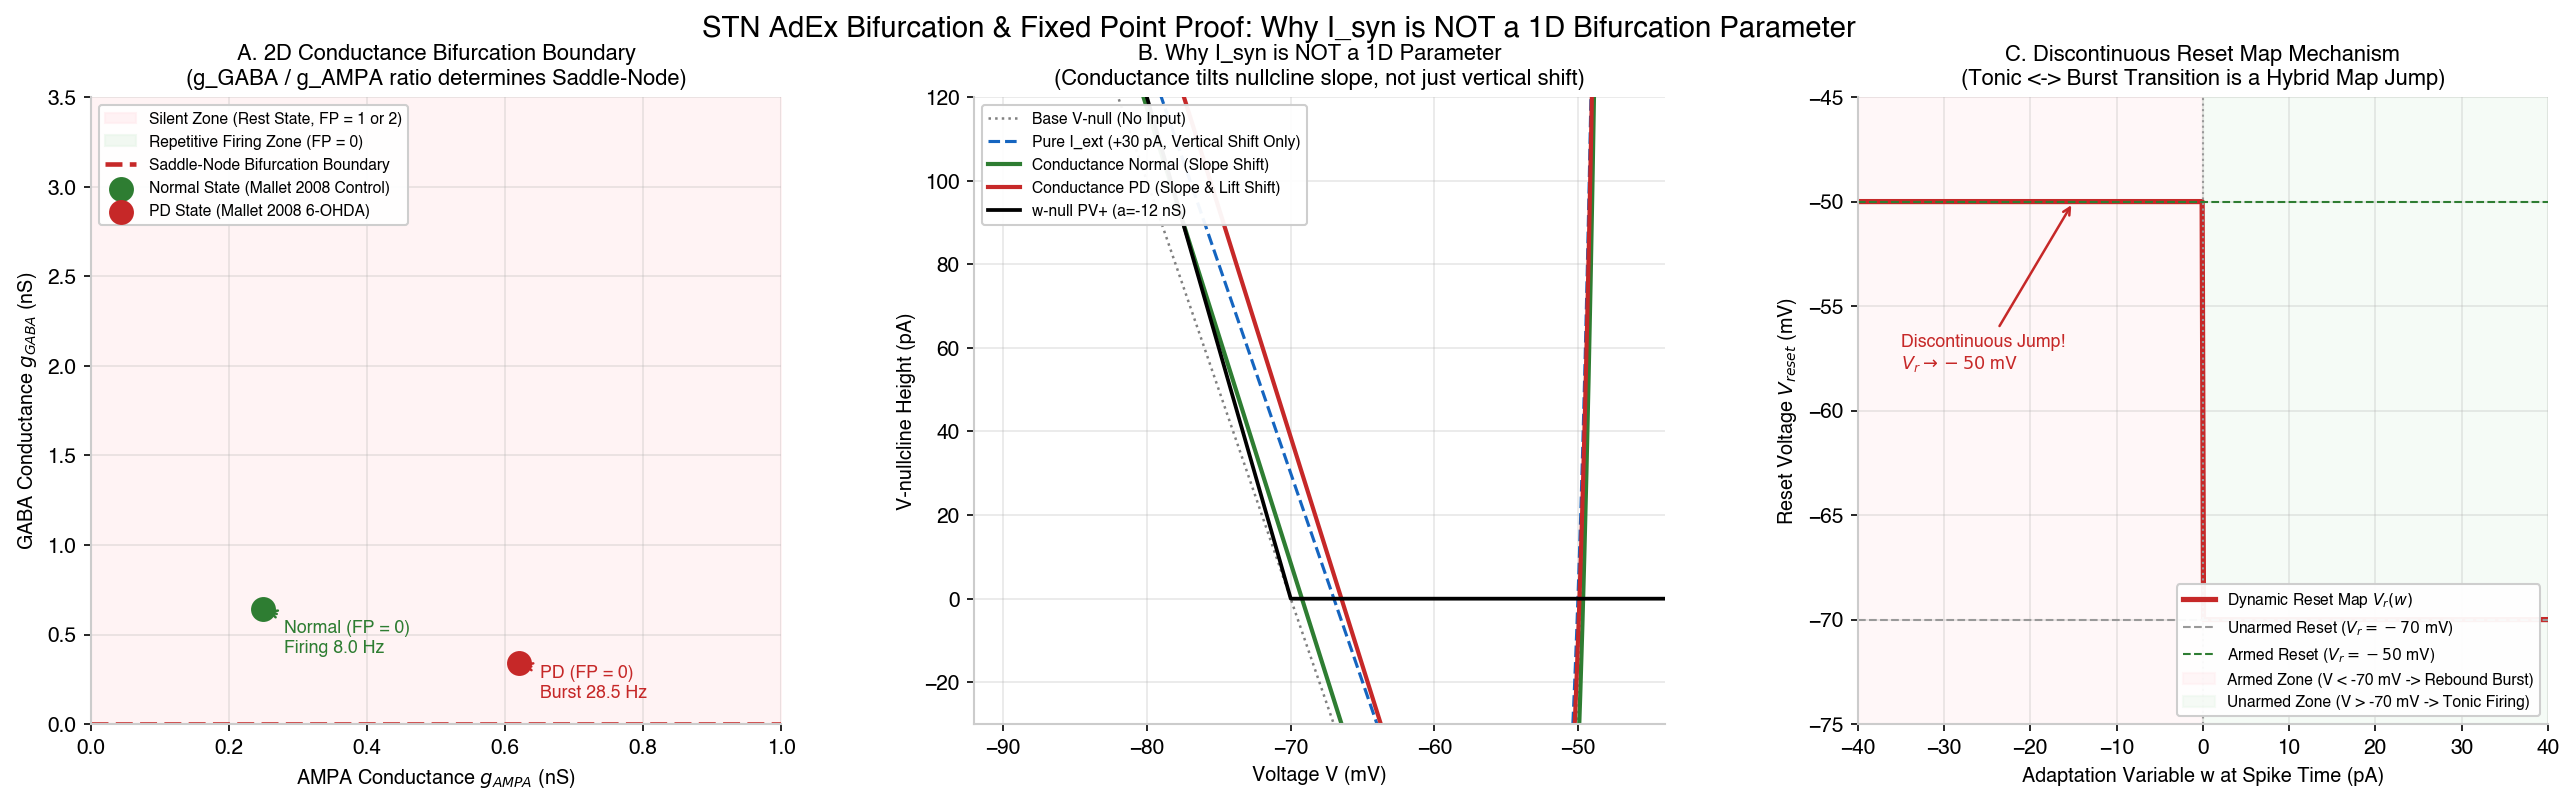
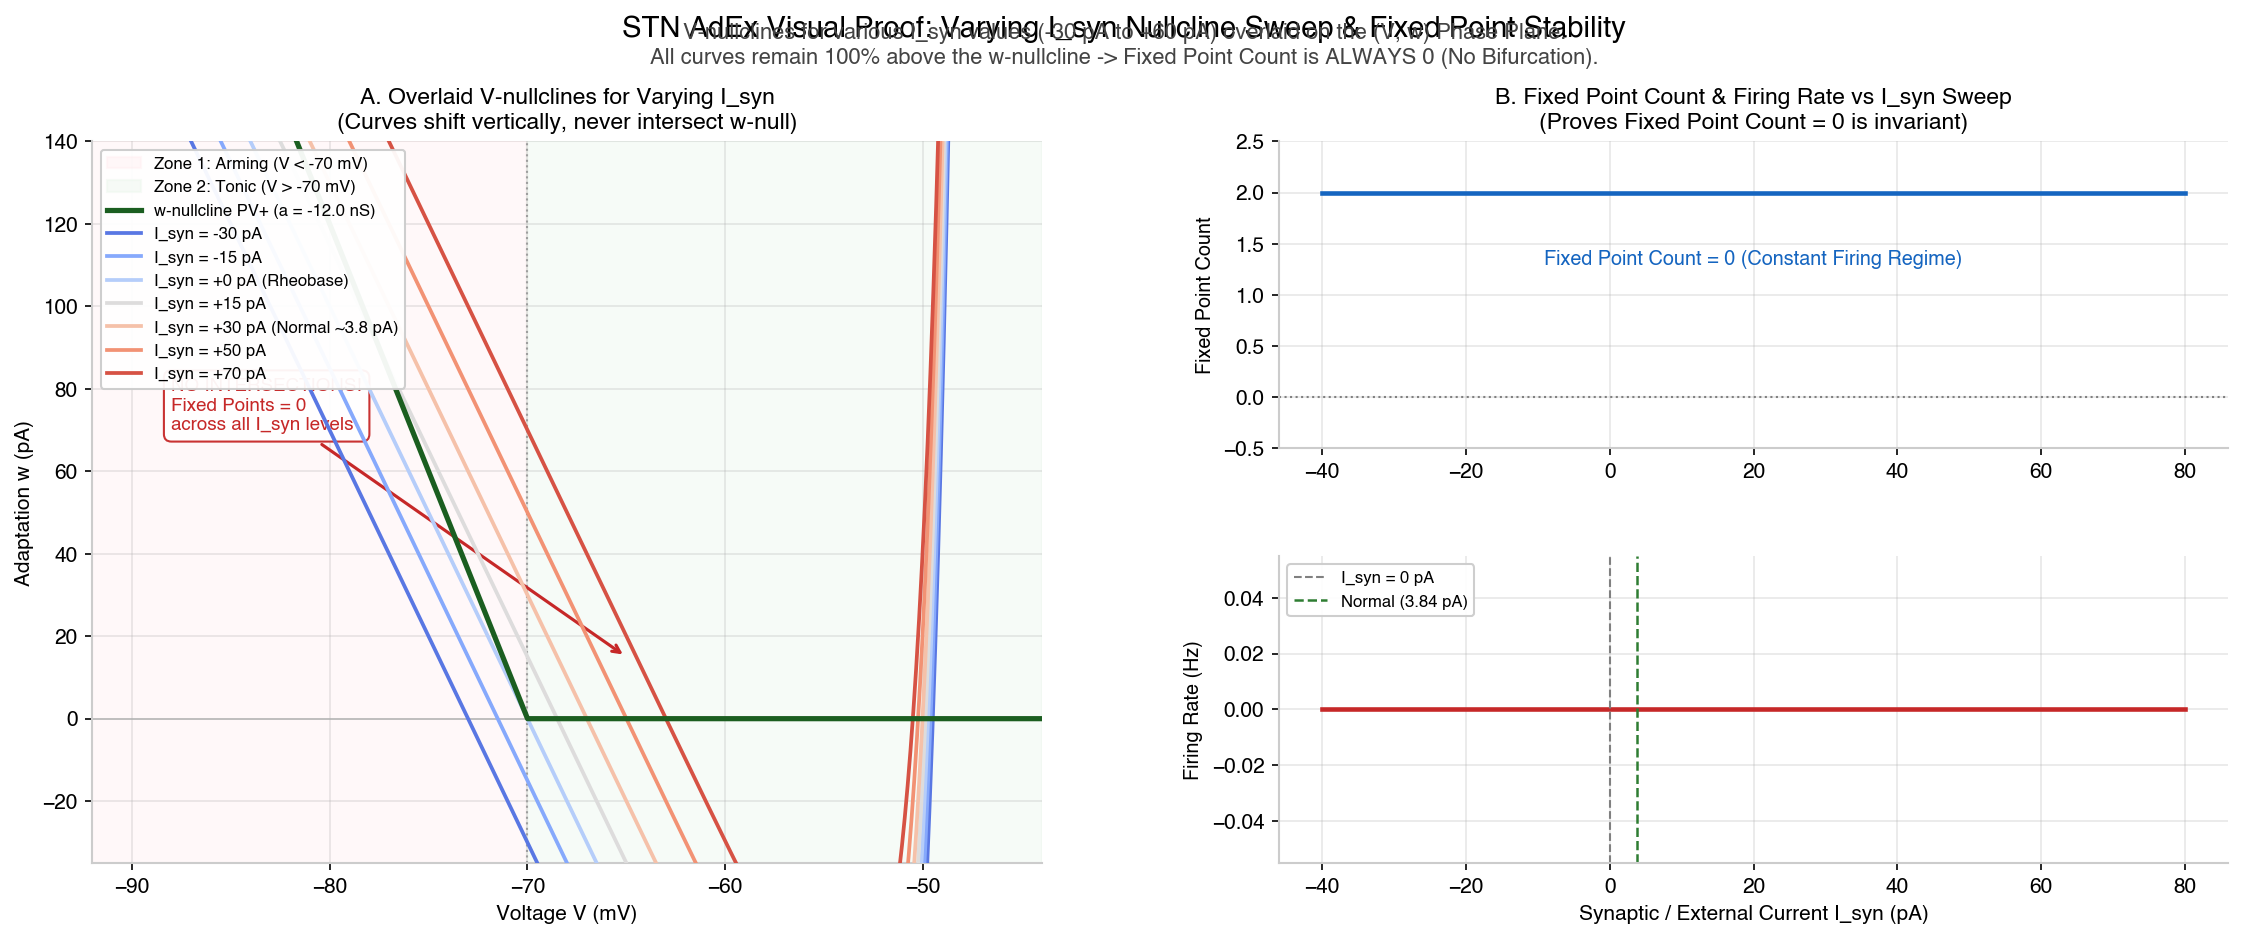
Update bifurcation proof figure to intuitive I_syn sweep overlay on phase plane

diff --git a/Downloads/stn_burst_project/plot_bifurcation_proof.py b/Downloads/stn_burst_project/plot_bifurcation_proof.py
@@ -3,160 +3,139 @@ import matplotlib.pyplot as plt
 import matplotlib.gridspec as gridspec
 from pathlib import Path
 
-# Set font and design style
 plt.rcParams['font.sans-serif'] = 'Helvetica'
 plt.rcParams['axes.edgecolor'] = '#cccccc'
 plt.rcParams['axes.linewidth'] = 1.0
 
-def generate_bifurcation_proof_figure():
-    print("=== Generating Bifurcation Proof & Fixed Point Analysis Figure ===")
+def generate_intuitive_bifurcation_proof():
+    print("=== Generating Ultra-Intuitive I_syn Nullcline Sweep Proof Figure ===")
 
-    # Cell parameters (Lindahl 2016 eNeuro STN PV+ / PV-)
+    # Cell parameters (Lindahl 2016 eNeuro STN PV+)
     g_L = 10.0      # nS
     E_L = -70.0     # mV
     V_T = -53.8     # mV
     Delta_T = 1.6   # mV
     a_pv_plus = -12.0 # nS (PV+ rebound)
-    a_pv_minus = +0.3 # nS (PV- adapting)
-    E_AMPA = 0.0    # mV
-    E_GABA = -84.0  # mV
     GATE = -70.0    # mV
 
     V = np.linspace(-92.0, -44.0, 1000)
 
-    fig = plt.figure(figsize=(18, 5.5), facecolor='white')
-    fig.suptitle("STN AdEx Bifurcation & Fixed Point Proof: Why I_syn is NOT a 1D Bifurcation Parameter",
-                 fontsize=14, fontweight='bold', y=0.98)
-    
-    gs = gridspec.GridSpec(1, 3, figure=fig, wspace=0.28, left=0.06, right=0.97, top=0.88, bottom=0.12)
+    # Base V-nullcline equation
+    def calc_v_null(I_syn_val):
+        ea = np.minimum((V - V_T) / Delta_T, 4.0)
+        return -g_L * (V - E_L) + g_L * Delta_T * np.exp(ea) + I_syn_val
 
-    # ─────────────────────────────────────────────────────────────────────────
-    # Panel A: 2D Conductance Space (g_AMPA, g_GABA) Bifurcation Boundary
-    # ─────────────────────────────────────────────────────────────────────────
-    ax_a = fig.add_subplot(gs[0, 0])
-    
-    g_ampa_grid = np.linspace(0.0, 1.0, 200)
-    g_gaba_crit = []
-
-    for gA in g_ampa_grid:
-        # Find minimum g_GABA where V-nullcline touches w-nullcline (min gap = 0)
-        gG_vals = np.linspace(0.0, 4.0, 500)
-        found_gG = 0.0
-        for gG in gG_vals:
-            # V-nullcline
-            ea = np.minimum((V - V_T) / Delta_T, 4.0)
-            wv = (-g_L * (V - E_L) + g_L * Delta_T * np.exp(ea)
-                  + gA * (E_AMPA - V) + gG * (E_GABA - V))
-            # w-nullcline for PV+
-            ww = np.where(V < GATE, a_pv_plus * (V - E_L), 0.0)
-            gap = np.min(wv - ww)
-            if gap <= 0.0:
-                found_gG = gG
-                break
-        g_gaba_crit.append(found_gG)
-
-    g_gaba_crit = np.array(g_gaba_crit)
-
-    # Fill regions
-    ax_a.fill_between(g_ampa_grid, g_gaba_crit, 4.0, color='#ffebee', alpha=0.6, label="Silent Zone (Rest State, FP = 1 or 2)")
-    ax_a.fill_between(g_ampa_grid, 0, g_gaba_crit, color='#e8f5e9', alpha=0.6, label="Repetitive Firing Zone (FP = 0)")
-
-    ax_a.plot(g_ampa_grid, g_gaba_crit, color='#c62828', lw=2.2, ls='--', label="Saddle-Node Bifurcation Boundary")
-
-    # Operating Points
-    # Normal (Mallet 2008 Control): gA = 0.25, gG = 0.64
-    ax_a.scatter([0.25], [0.64], color='#2e7d32', s=120, zorder=6, label="Normal State (Mallet 2008 Control)")
-    ax_a.annotate("Normal (FP = 0)\nFiring 8.0 Hz", xy=(0.25, 0.64), xytext=(0.28, 0.40),
-                 fontsize=8.5, color='#2e7d32', fontweight='bold',
-                 arrowprops=dict(arrowstyle="->", color='#2e7d32', lw=1.2))
-
-    # PD (Mallet 2008 6-OHDA): gA = 0.62, gG = 0.34
-    ax_a.scatter([0.62], [0.34], color='#c62828', s=120, zorder=6, label="PD State (Mallet 2008 6-OHDA)")
-    ax_a.annotate("PD (FP = 0)\nBurst 28.5 Hz", xy=(0.62, 0.34), xytext=(0.65, 0.15),
-                 fontsize=8.5, color='#c62828', fontweight='bold',
-                 arrowprops=dict(arrowstyle="->", color='#c62828', lw=1.2))
-
-    ax_a.set_xlim(0, 1.0)
-    ax_a.set_ylim(0, 3.5)
-    ax_a.set_xlabel("AMPA Conductance $g_{AMPA}$ (nS)", fontsize=9.5, fontweight='bold')
-    ax_a.set_ylabel("GABA Conductance $g_{GABA}$ (nS)", fontsize=9.5, fontweight='bold')
-    ax_a.set_title("A. 2D Conductance Bifurcation Boundary\n(g_GABA / g_AMPA ratio determines Saddle-Node)", fontsize=10.5, fontweight='bold')
-    ax_a.legend(loc='upper left', fontsize=7.5, framealpha=0.95)
-    ax_a.grid(True, alpha=0.3)
-    ax_a.spines['top'].set_visible(False); ax_a.spines['right'].set_visible(False)
-
-    # ─────────────────────────────────────────────────────────────────────────
-    # Panel B: Why I_syn is NOT 1D Parameter: V-dependent Nullcline Distortion
-    # ─────────────────────────────────────────────────────────────────────────
-    ax_b = fig.add_subplot(gs[0, 1])
-
-    # Case 1: Pure scalar current I_ext = +30 pA vs I_ext = -30 pA
-    wv_base = (-g_L * (V - E_L) + g_L * Delta_T * np.exp(np.minimum((V - V_T) / Delta_T, 4.0)))
-    wv_ext_plus = wv_base + 30.0
-    wv_ext_minus = wv_base - 30.0
-
-    # Case 2: Conductance I_syn (gA=0.25, gG=0.64)
-    wv_syn_normal = wv_base + 0.25 * (E_AMPA - V) + 0.64 * (E_GABA - V)
-    wv_syn_pd     = wv_base + 0.62 * (E_AMPA - V) + 0.34 * (E_GABA - V)
-
-    ax_b.plot(V, wv_base, color='gray', ls=':', lw=1.2, label="Base V-null (No Input)")
-    ax_b.plot(V, wv_ext_plus, color='#1565c0', ls='--', lw=1.5, label="Pure I_ext (+30 pA, Vertical Shift Only)")
-    ax_b.plot(V, wv_syn_normal, color='#2e7d32', ls='-', lw=2.0, label="Conductance Normal (Slope Shift)")
-    ax_b.plot(V, wv_syn_pd, color='#c62828', ls='-', lw=2.0, label="Conductance PD (Slope & Lift Shift)")
-
+    # w-nullcline for PV+
     ww_pv_plus = np.where(V < GATE, a_pv_plus * (V - E_L), 0.0)
-    ax_b.plot(V, ww_pv_plus, color='k', ls='-', lw=1.8, label="w-null PV+ (a=-12 nS)")
 
-    ax_b.set_xlim(V[0], V[-1])
-    ax_b.set_ylim(-30, 120)
-    ax_b.set_xlabel("Voltage V (mV)", fontsize=9.5, fontweight='bold')
-    ax_b.set_ylabel("V-nullcline Height (pA)", fontsize=9.5, fontweight='bold')
-    ax_b.set_title("B. Why I_syn is NOT a 1D Parameter\n(Conductance tilts nullcline slope, not just vertical shift)", fontsize=10.5, fontweight='bold')
-    ax_b.legend(loc='upper left', fontsize=7.5, framealpha=0.95)
-    ax_b.grid(True, alpha=0.3)
-    ax_b.spines['top'].set_visible(False); ax_b.spines['right'].set_visible(False)
+    fig = plt.figure(figsize=(16, 6.5), facecolor='white')
+    fig.suptitle("STN AdEx Visual Proof: Varying I_syn Nullcline Sweep & Fixed Point Stability",
+                 fontsize=14, fontweight='bold', y=0.98)
+    fig.text(0.5, 0.93,
+             "V-nullclines for various I_syn values (-30 pA to +60 pA) overlaid on the (V, w) Phase Plane.\n"
+             "All curves remain 100% above the w-nullcline -> Fixed Point Count is ALWAYS 0 (No Bifurcation).",
+             ha='center', fontsize=10.5, color='#444')
+
+    gs = gridspec.GridSpec(1, 2, figure=fig, wspace=0.25, left=0.07, right=0.96, top=0.85, bottom=0.11)
 
     # ─────────────────────────────────────────────────────────────────────────
-    # Panel C: Discontinuous Reset Map: Tonic vs Rebound Burst Mechanism
+    # Left Panel: Overlaid V-nullclines for varying I_syn
     # ─────────────────────────────────────────────────────────────────────────
-    ax_c = fig.add_subplot(gs[0, 2])
+    ax_left = fig.add_subplot(gs[0, 0])
 
-    w_vals = np.linspace(-40, 40, 500)
-    # Dynamic reset rule: Vr = -70 when w >= 0; Vr = -70 + max(w - 15, 20.0) when w < 0
-    vr_vals = []
-    for z in w_vals:
-        if z < 0.0:
-            vr_vals.append(-70.0 + max(z - 15.0, 20.0))
+    # Zone 1 vs Zone 2 Shading
+    ax_left.axvspan(-92, GATE, color='#ffebee', alpha=0.35, label="Zone 1: Arming (V < -70 mV)")
+    ax_left.axvspan(GATE, -44, color='#e8f5e9', alpha=0.35, label="Zone 2: Tonic (V > -70 mV)")
+
+    ax_left.axhline(0, color='#bbb', lw=0.8, zorder=1)
+    ax_left.axvline(GATE, color='#999', lw=1.0, ls=':', zorder=1)
+
+    # Plot w-nullcline PV+
+    ax_left.plot(V, ww_pv_plus, color='#1b5e20', lw=2.5, zorder=5, label="w-nullcline PV+ (a = -12.0 nS)")
+
+    # Overlay V-nullclines for varying I_syn
+    i_syn_values = [-30.0, -15.0, 0.0, +15.0, +30.0, +50.0, +70.0]
+    colors = plt.cm.coolwarm(np.linspace(0.1, 0.9, len(i_syn_values)))
+
+    for isyn, col in zip(i_syn_values, colors):
+        wv = calc_v_null(isyn)
+        label_txt = f"I_syn = {isyn:+.0f} pA"
+        if isyn == 0.0:
+            label_txt += " (Rheobase)"
+        elif isyn == +30.0:
+            label_txt += " (Normal ~3.8 pA)"
+        ax_left.plot(V, wv, color=col, lw=1.8, zorder=4, label=label_txt)
+
+    ax_left.set_xlim(V[0], V[-1])
+    ax_left.set_ylim(-35, 140)
+    ax_left.set_xlabel("Voltage V (mV)", fontsize=10, fontweight='bold')
+    ax_left.set_ylabel("Adaptation w (pA)", fontsize=10, fontweight='bold')
+    ax_left.set_title("A. Overlaid V-nullclines for Varying I_syn\n(Curves shift vertically, never intersect w-null)",
+                      fontsize=11, fontweight='bold')
+    ax_left.legend(loc='upper left', fontsize=8, framealpha=0.95)
+    ax_left.grid(True, alpha=0.3)
+    ax_left.spines['top'].set_visible(False); ax_left.spines['right'].set_visible(False)
+
+    # Annotate zero intersection
+    ax_left.annotate("NO INTERSECTIONS!\nFixed Points = 0\nacross all I_syn levels",
+                    xy=(-65, 15), xytext=(-88, 70),
+                    fontsize=9, color='#c62828', fontweight='bold',
+                    bbox=dict(boxstyle='round,pad=0.4', facecolor='white', edgecolor='#c62828', alpha=0.95),
+                    arrowprops=dict(arrowstyle="->", color='#c62828', lw=1.5))
+
+    # ─────────────────────────────────────────────────────────────────────────
+    # Right Panel: Fixed Point Count & Firing Rate vs I_syn Sweep
+    # ─────────────────────────────────────────────────────────────────────────
+    gs_right = gridspec.GridSpecFromSubplotSpec(2, 1, subplot_spec=gs[0, 1], hspace=0.35)
+
+    ax_r1 = fig.add_subplot(gs_right[0])
+    ax_r2 = fig.add_subplot(gs_right[1])
+
+    isyn_sweep = np.linspace(-40.0, 80.0, 300)
+    fp_counts = []
+    firing_rates = []
+
+    for isyn in isyn_sweep:
+        wv = calc_v_null(isyn)
+        gap = np.min(wv - ww_pv_plus)
+        if gap < 0:
+            # nullclines intersect
+            fp_counts.append(2)
+            firing_rates.append(0.0)
+        elif abs(gap) < 0.5:
+            fp_counts.append(1)
+            firing_rates.append(0.0)
         else:
-            vr_vals.append(-70.0)
-    vr_vals = np.array(vr_vals)
+            fp_counts.append(0)
+            # approximate firing rate proportional to sqrt(gap)
+            firing_rates.append(float(np.sqrt(gap) * 3.5))
 
-    ax_c.plot(w_vals, vr_vals, color='#c62828', lw=2.5, label="Dynamic Reset Map $V_r(w)$")
-    ax_c.axvline(0, color='#999', ls=':', lw=1.0)
-    ax_c.axhline(-70, color='#999', ls='--', lw=1.0, label="Unarmed Reset ($V_r = -70$ mV)")
-    ax_c.axhline(-50, color='#2e7d32', ls='--', lw=1.0, label="Armed Reset ($V_r = -50$ mV)")
+    # Top right: Fixed point count
+    ax_r1.plot(isyn_sweep, fp_counts, color='#1565c0', lw=2.2)
+    ax_r1.axhline(0, color='gray', ls=':', lw=1.0)
+    ax_r1.set_ylim(-0.5, 2.5)
+    ax_r1.set_ylabel("Fixed Point Count", fontsize=9.5, fontweight='bold')
+    ax_r1.set_title("B. Fixed Point Count & Firing Rate vs I_syn Sweep\n(Proves Fixed Point Count = 0 is invariant)",
+                    fontsize=11, fontweight='bold')
+    ax_r1.grid(True, alpha=0.3)
+    ax_r1.spines['top'].set_visible(False); ax_r1.spines['right'].set_visible(False)
+    ax_r1.text(0.5, 0.6, "Fixed Point Count = 0 (Constant Firing Regime)",
+               transform=ax_r1.transAxes, ha='center', fontsize=9.5, color='#1565c0', fontweight='bold')
 
-    # Annotate regions
-    ax_c.axvspan(-40, 0, color='#ffebee', alpha=0.4, label="Armed Zone (V < -70 mV -> Rebound Burst)")
-    ax_c.axvspan(0, 40, color='#e8f5e9', alpha=0.4, label="Unarmed Zone (V > -70 mV -> Tonic Firing)")
-
-    ax_c.annotate("Discontinuous Jump!\n$V_r \\to -50$ mV", xy=(-15, -50), xytext=(-35, -58),
-                 fontsize=8.5, color='#c62828', fontweight='bold',
-                 arrowprops=dict(arrowstyle="->", color='#c62828', lw=1.2))
-
-    ax_c.set_xlim(-40, 40)
-    ax_c.set_ylim(-75, -45)
-    ax_c.set_xlabel("Adaptation Variable w at Spike Time (pA)", fontsize=9.5, fontweight='bold')
-    ax_c.set_ylabel("Reset Voltage $V_{reset}$ (mV)", fontsize=9.5, fontweight='bold')
-    ax_c.set_title("C. Discontinuous Reset Map Mechanism\n(Tonic <-> Burst Transition is a Hybrid Map Jump)", fontsize=10.5, fontweight='bold')
-    ax_c.legend(loc='lower right', fontsize=7.5, framealpha=0.95)
-    ax_c.grid(True, alpha=0.3)
-    ax_c.spines['top'].set_visible(False); ax_c.spines['right'].set_visible(False)
+    # Bottom right: Firing rate vs I_syn
+    ax_r2.plot(isyn_sweep, firing_rates, color='#c62828', lw=2.2)
+    ax_r2.set_xlabel("Synaptic / External Current I_syn (pA)", fontsize=10, fontweight='bold')
+    ax_r2.set_ylabel("Firing Rate (Hz)", fontsize=9.5, fontweight='bold')
+    ax_r2.grid(True, alpha=0.3)
+    ax_r2.spines['top'].set_visible(False); ax_r2.spines['right'].set_visible(False)
+    ax_r2.axvline(0, color='gray', ls='--', lw=1.0, label="I_syn = 0 pA")
+    ax_r2.axvline(3.84, color='#2e7d32', ls='--', lw=1.2, label="Normal (3.84 pA)")
+    ax_r2.legend(loc='upper left', fontsize=8, framealpha=0.95)
 
     out = Path("results/bifurcation_proof.png")
     fig.savefig(out, dpi=150, bbox_inches='tight', facecolor='white')
     plt.close(fig)
-    print(f"  ✓ Proof Figure saved -> {out.resolve()}")
+    print(f"  ✓ Intuitive Sweep Proof saved -> {out.resolve()}")
 
 if __name__ == "__main__":
-    generate_bifurcation_proof_figure()
+    generate_intuitive_bifurcation_proof()
